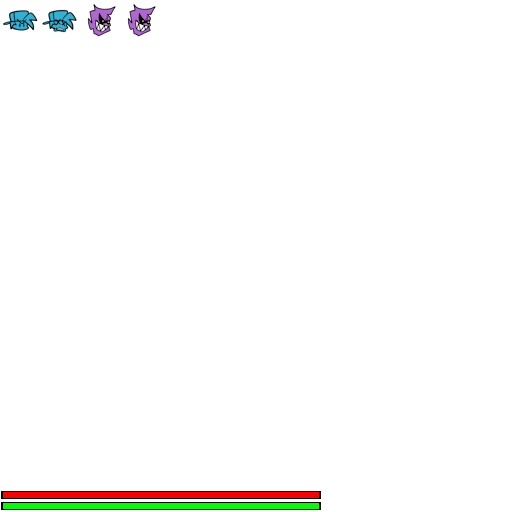
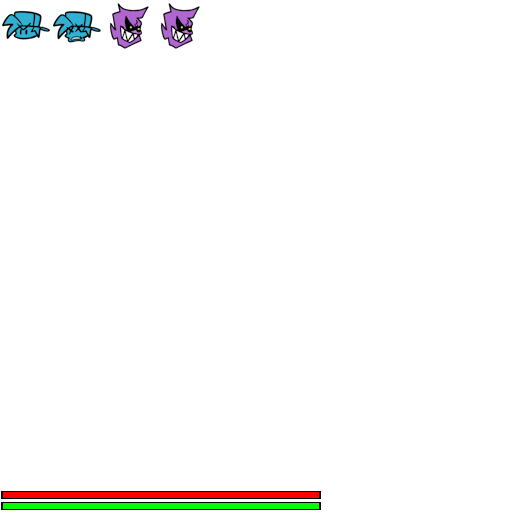
week 1 finished

Changed region(s): [[0.0, 0.0, 0.4062, 0.0938]]

diff --git a/src/playstate.cpp b/src/playstate.cpp
@@ -177,6 +177,10 @@ void PlayStateScreen::update(void)
         if (app->parser.justStep && !(app->parser.curStep % 16)) {
             gamecam.zoom.setValue(gamecam.basezoom+0.05, gamecam.basezoom, 0.2); 
         }
+        //bump icons
+        if (app->parser.justStep && !(app->parser.curStep % 4)) {
+            iconcam.zoom.setValue(0.04, 0, 0.2); 
+        }
 
         //limit health
         if (health <= 0){
@@ -244,7 +248,6 @@ void PlayStateScreen::update(void)
             }
             else {
                 //reload the screen
-
                 if ((nextsong == "NULL" || nextsong == "null"))
                     setScreen(new StoryModeScreen());
                 else
@@ -272,8 +275,8 @@ void PlayStateScreen::drawHealthBar(void) {
     GFX::drawTex<int>(icons, &img, &disp, 0, 255, hudcam.zoom.getValue());
 }
 
-#define ICON_ROWS 12
-#define ICON_SIZE 39
+#define ICON_ROWS 10
+#define ICON_SIZE 50
 void PlayStateScreen::drawIcons(void) {
     //opponent
     int dying = (health > 0.8 ? ICON_SIZE+1 : 0);
@@ -284,7 +287,7 @@ void PlayStateScreen::drawIcons(void) {
                           ICON_SIZE};
 
     GFX::RECT<int> disp = {80+static_cast<int>(abs(health - 1.0)*320)-ICON_SIZE, 220, ICON_SIZE, ICON_SIZE};
-    GFX::drawTex<int>(icons, &img, &disp, 0, 255, hudcam.zoom.getValue());
+    GFX::drawTex<int>(icons, &img, &disp, 0, 255, hudcam.zoom.getValue() + iconcam.zoom.getValue());
 
     //player
     dying = (health < 0.2 ? ICON_SIZE+1 : 0);
@@ -295,7 +298,7 @@ void PlayStateScreen::drawIcons(void) {
            ICON_SIZE};
 
     disp = {80+static_cast<int>(abs(health - 1.0)*320), 220, ICON_SIZE, ICON_SIZE};
-    GFX::drawTex<int>(icons, &img, &disp, 0, 255, hudcam.zoom.getValue());
+    GFX::drawTex<int>(icons, &img, &disp, 0, 255, hudcam.zoom.getValue() + iconcam.zoom.getValue());
 }
 
 void PlayStateScreen::draw(void)

diff --git a/src/menu/storymode.cpp b/src/menu/storymode.cpp
@@ -4,6 +4,7 @@
 #include <stdio.h>
 
 #include "mainmenu.h"
+#include "../playstate.h"
 
 StoryModeScreen::StoryModeScreen(void) {
     background = new GFX::Texture();
@@ -13,18 +14,6 @@ StoryModeScreen::StoryModeScreen(void) {
 
 void StoryModeScreen::update(void) 
 {
-    /*
-    for (int i = 0; i < static_cast<int>(COUNT_OF(menu_selections)); i++)
-    {
-        menu_selections[i]->tick();
-        int frame = i;
-        if (selection == i)
-            frame += static_cast<int>(COUNT_OF(menu_selections));
-
-        if (!menu_selections[i]->cantick)
-            menu_selections[i]->setAnim(frame, ModeNone);
-    }*/
-   
     if (app->event.isPressed(Input::MENU_UP))
     {
         selection -= 1;
@@ -38,7 +27,9 @@ void StoryModeScreen::update(void)
   //          selection = static_cast<int>(songs.size()-1);
     }
     if (app->event.isPressed(Input::MENU_ENTER))
-    {}
+    {
+        setScreen(new PlayStateScreen("bopeebo", false));
+    }
 
     if (app->event.isPressed(Input::MENU_ESCAPE))
     {
@@ -51,6 +42,8 @@ void StoryModeScreen::draw(void)
     GFX::RECT<int> background_img = {0, 0, 512, 331};
     GFX::RECT<float> background_disp = {GFX::SCREEN_WIDTH/2 - 700/2, GFX::SCREEN_HEIGHT/2 - 397/2, 700, 397};
     GFX::drawTex<float>(background, &background_img, &background_disp, 0, 255, 1);
+
+    app->normalFont->Print(Left, 50, 50, "only week 1 currently available \n(press x to start)");
 }
 
 StoryModeScreen::~StoryModeScreen(void) 

diff --git a/src/menu/freeplay.cpp b/src/menu/freeplay.cpp
@@ -20,7 +20,6 @@ FreeplayScreen::FreeplayScreen(void) {
 
     for (dirent *entry = readdir(dir); entry != NULL; entry = readdir(dir))
     {
-        //todo filter out . and .. 
         std::string name(entry->d_name);
         if (name == "." || name == "..") 
             continue;
@@ -36,17 +35,6 @@ FreeplayScreen::FreeplayScreen(void) {
 
 void FreeplayScreen::update(void) 
 {
-    /*
-    for (int i = 0; i < static_cast<int>(COUNT_OF(menu_selections)); i++)
-    {
-        menu_selections[i]->tick();
-        int frame = i;
-        if (selection == i)
-            frame += static_cast<int>(COUNT_OF(menu_selections));
-
-        if (!menu_selections[i]->cantick)
-            menu_selections[i]->setAnim(frame, ModeNone);
-    }*/
    
     if (app->event.isPressed(Input::MENU_UP))
     {

diff --git a/src/playstate.h b/src/playstate.h
@@ -45,7 +45,7 @@ private:
         Tween<float, QuadInOutEasing, Chrono> camx, camy;
         Tween<float, QuadInOutEasing, Chrono> zoom;
         float basezoom;
-    } gamecam, hudcam;
+    } gamecam, hudcam, iconcam;
     void initscr(std::string song, bool _freeplay);
     void drawHealthBar(void);
     void drawIcons(void);

diff --git a/src/character.cpp b/src/character.cpp
@@ -72,7 +72,7 @@ void Character::tick(void) {
     //set animations
     if (!issinging)
     {
-        if (app->parser.justStep && !(app->parser.curStep % 4))
+        if (app->parser.justStep && !(app->parser.curStep % 8))
             setAnim(0, ModeStep);
     }
 }

diff --git a/src/stage.cpp b/src/stage.cpp
@@ -40,6 +40,7 @@ void Stage::free(void) {
         if (textures.size() == 0)
             return;
         delete textures[i].texture;
+        textures[i].texture = nullptr;
     }
 }
 

diff --git a/src/psp/animation.cpp b/src/psp/animation.cpp
@@ -64,6 +64,7 @@ Anim_OBJECT::~Anim_OBJECT(void)
         if (textures.size() == 0)
             return;
         delete textures[i];
+        textures[i] = nullptr;
     }
 }
 

diff --git a/src/psp/gfx.cpp b/src/psp/gfx.cpp
@@ -27,6 +27,7 @@ Texture::~Texture(void) {
     if (handle) {
         SDL_DestroyTexture(handle);
     }
+    handle = nullptr;
 }
 
 bool Texture::load(const char *path) {
